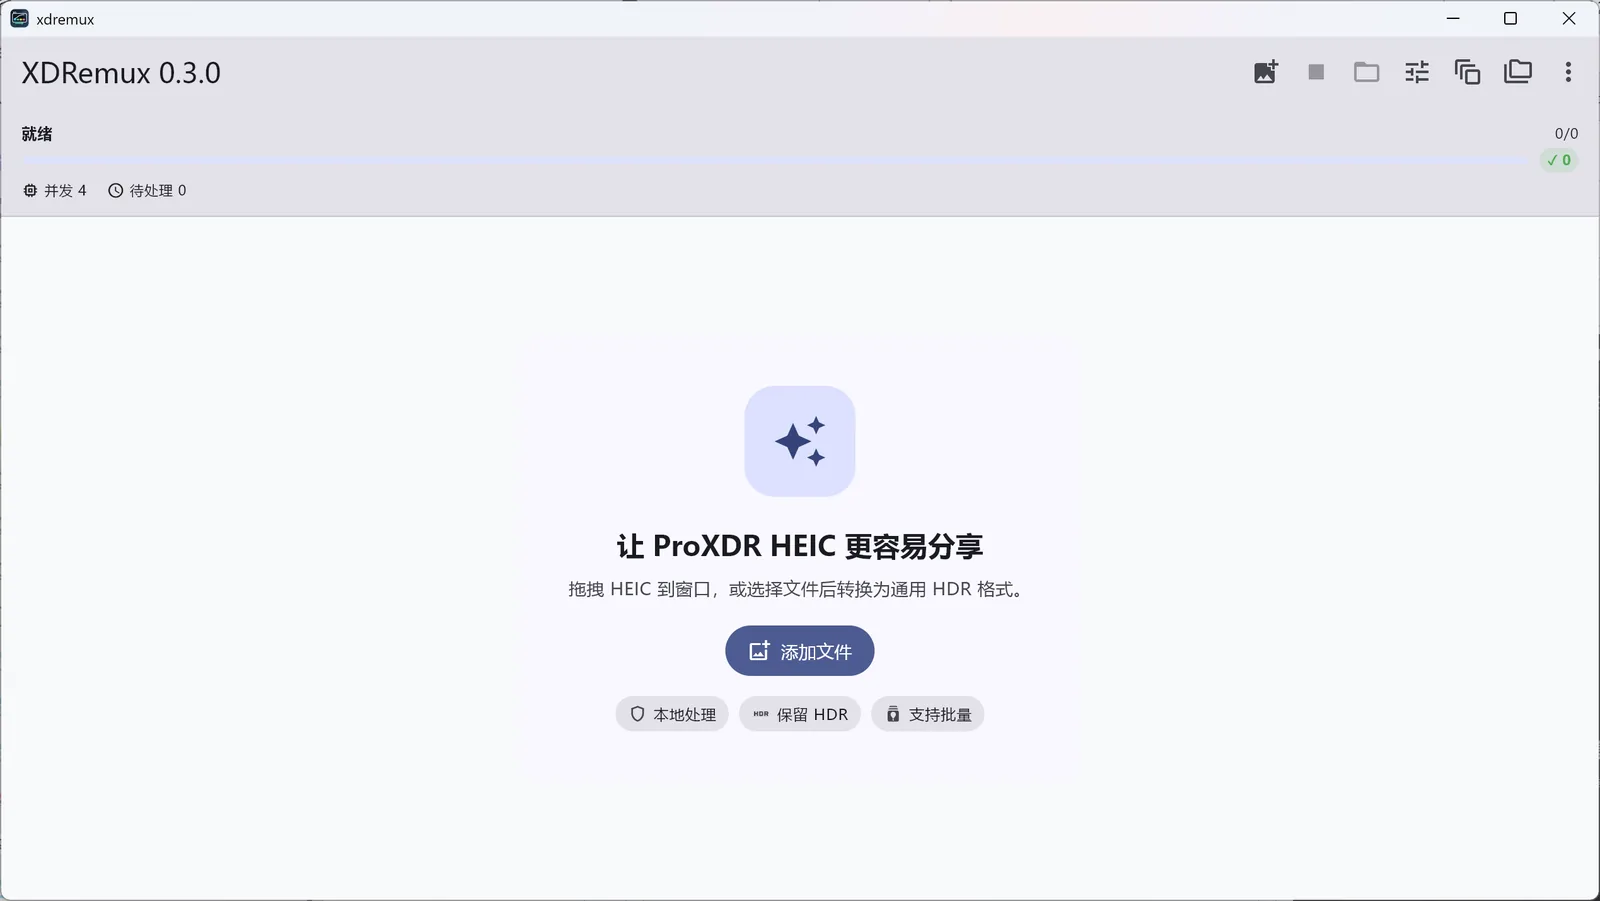
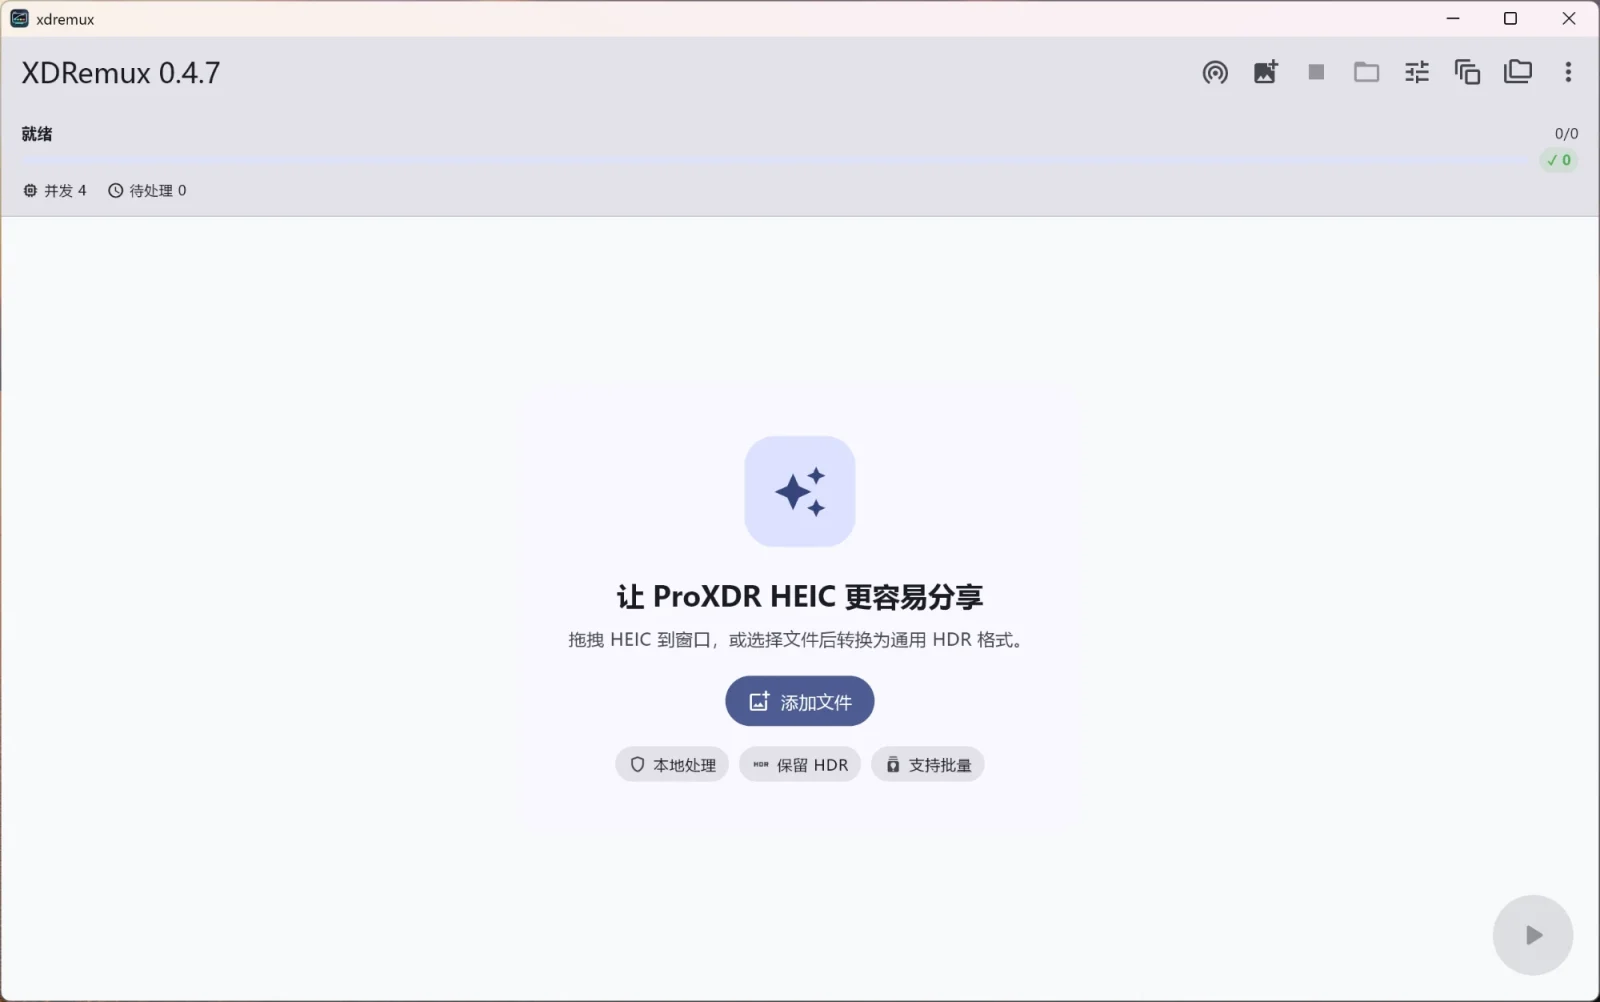
shots(windows): 0.4.7 main screen

diff --git a/index.html b/index.html
@@ -894,12 +894,12 @@ button{font-family:inherit}
         </div>
       </div>
       <div class="screens" id="screens" role="tabpanel" aria-labelledby="tab-windows" data-reveal>
-        <figure class="screen on" data-shot="windows"><img src="assets/windows.webp" width="1600" height="901" alt="XDRemux Windows 版主界面"></figure>
+        <figure class="screen on" data-shot="windows"><img src="assets/windows.webp?v=2" width="1600" height="1002" alt="XDRemux Windows 版主界面"></figure>
         <figure class="screen" data-shot="macos" aria-hidden="true"><img src="assets/macos.webp?v=3" width="1600" height="1029" alt="XDRemux macOS 版主界面" loading="lazy"></figure>
         <figure class="screen" data-shot="android" aria-hidden="true"><div class="phone-frame"><img src="assets/android.webp?v=2" width="720" height="1584" alt="XDRemux Android 版主界面" loading="lazy"></div></figure>
         <figure class="screen" data-shot="ios" aria-hidden="true"><div class="phone-frame"><img src="assets/ios.webp?v=2" width="720" height="1048" alt="XDRemux iOS 版主界面，iPhone Duo 折叠屏上的转换队列" loading="lazy"></div></figure>
       </div>
-      <p class="screen-cap"><span id="shotCap">支持原生拖放，HEIC 队列预览使用系统 WIC。截图来自 0.3 版本。</span></p>
+      <p class="screen-cap"><span id="shotCap">支持原生拖放，HEIC 队列预览使用系统 WIC。截图来自 0.4.7 版本。</span></p>
       <ol class="flow5">
         <li data-reveal><span class="n">1</span><h3>添加照片</h3><p>用系统选择器导入 HEIC、HEIF 或 JPEG，也可以分享或拖放添加。</p></li>
         <li data-reveal style="--d:.08s"><span class="n">2</span><h3>查看详情</h3><p>检查格式、尺寸、EXIF、HDR 类型、拍摄模式与动态照片信息。</p></li>
@@ -1761,7 +1761,7 @@ button{font-family:inherit}
 
   /* ---------- screenshot tabs ---------- */
   const CAPS = {
-    windows: '支持原生拖放，HEIC 队列预览使用系统 WIC。截图来自 0.3 版本。',
+    windows: '支持原生拖放，HEIC 队列预览使用系统 WIC。截图来自 0.4.7 版本。',
     macos: '电脑上的宽队列与详情布局。截图来自 0.4.7 版本。',
     android: '支持分享接收、保存图库与后台转换。截图来自 0.4.7 版本。',
     ios: '从相册、文件或分享扩展导入。截图来自 iPhone Duo 模拟器上的 0.4.7 版本。'
